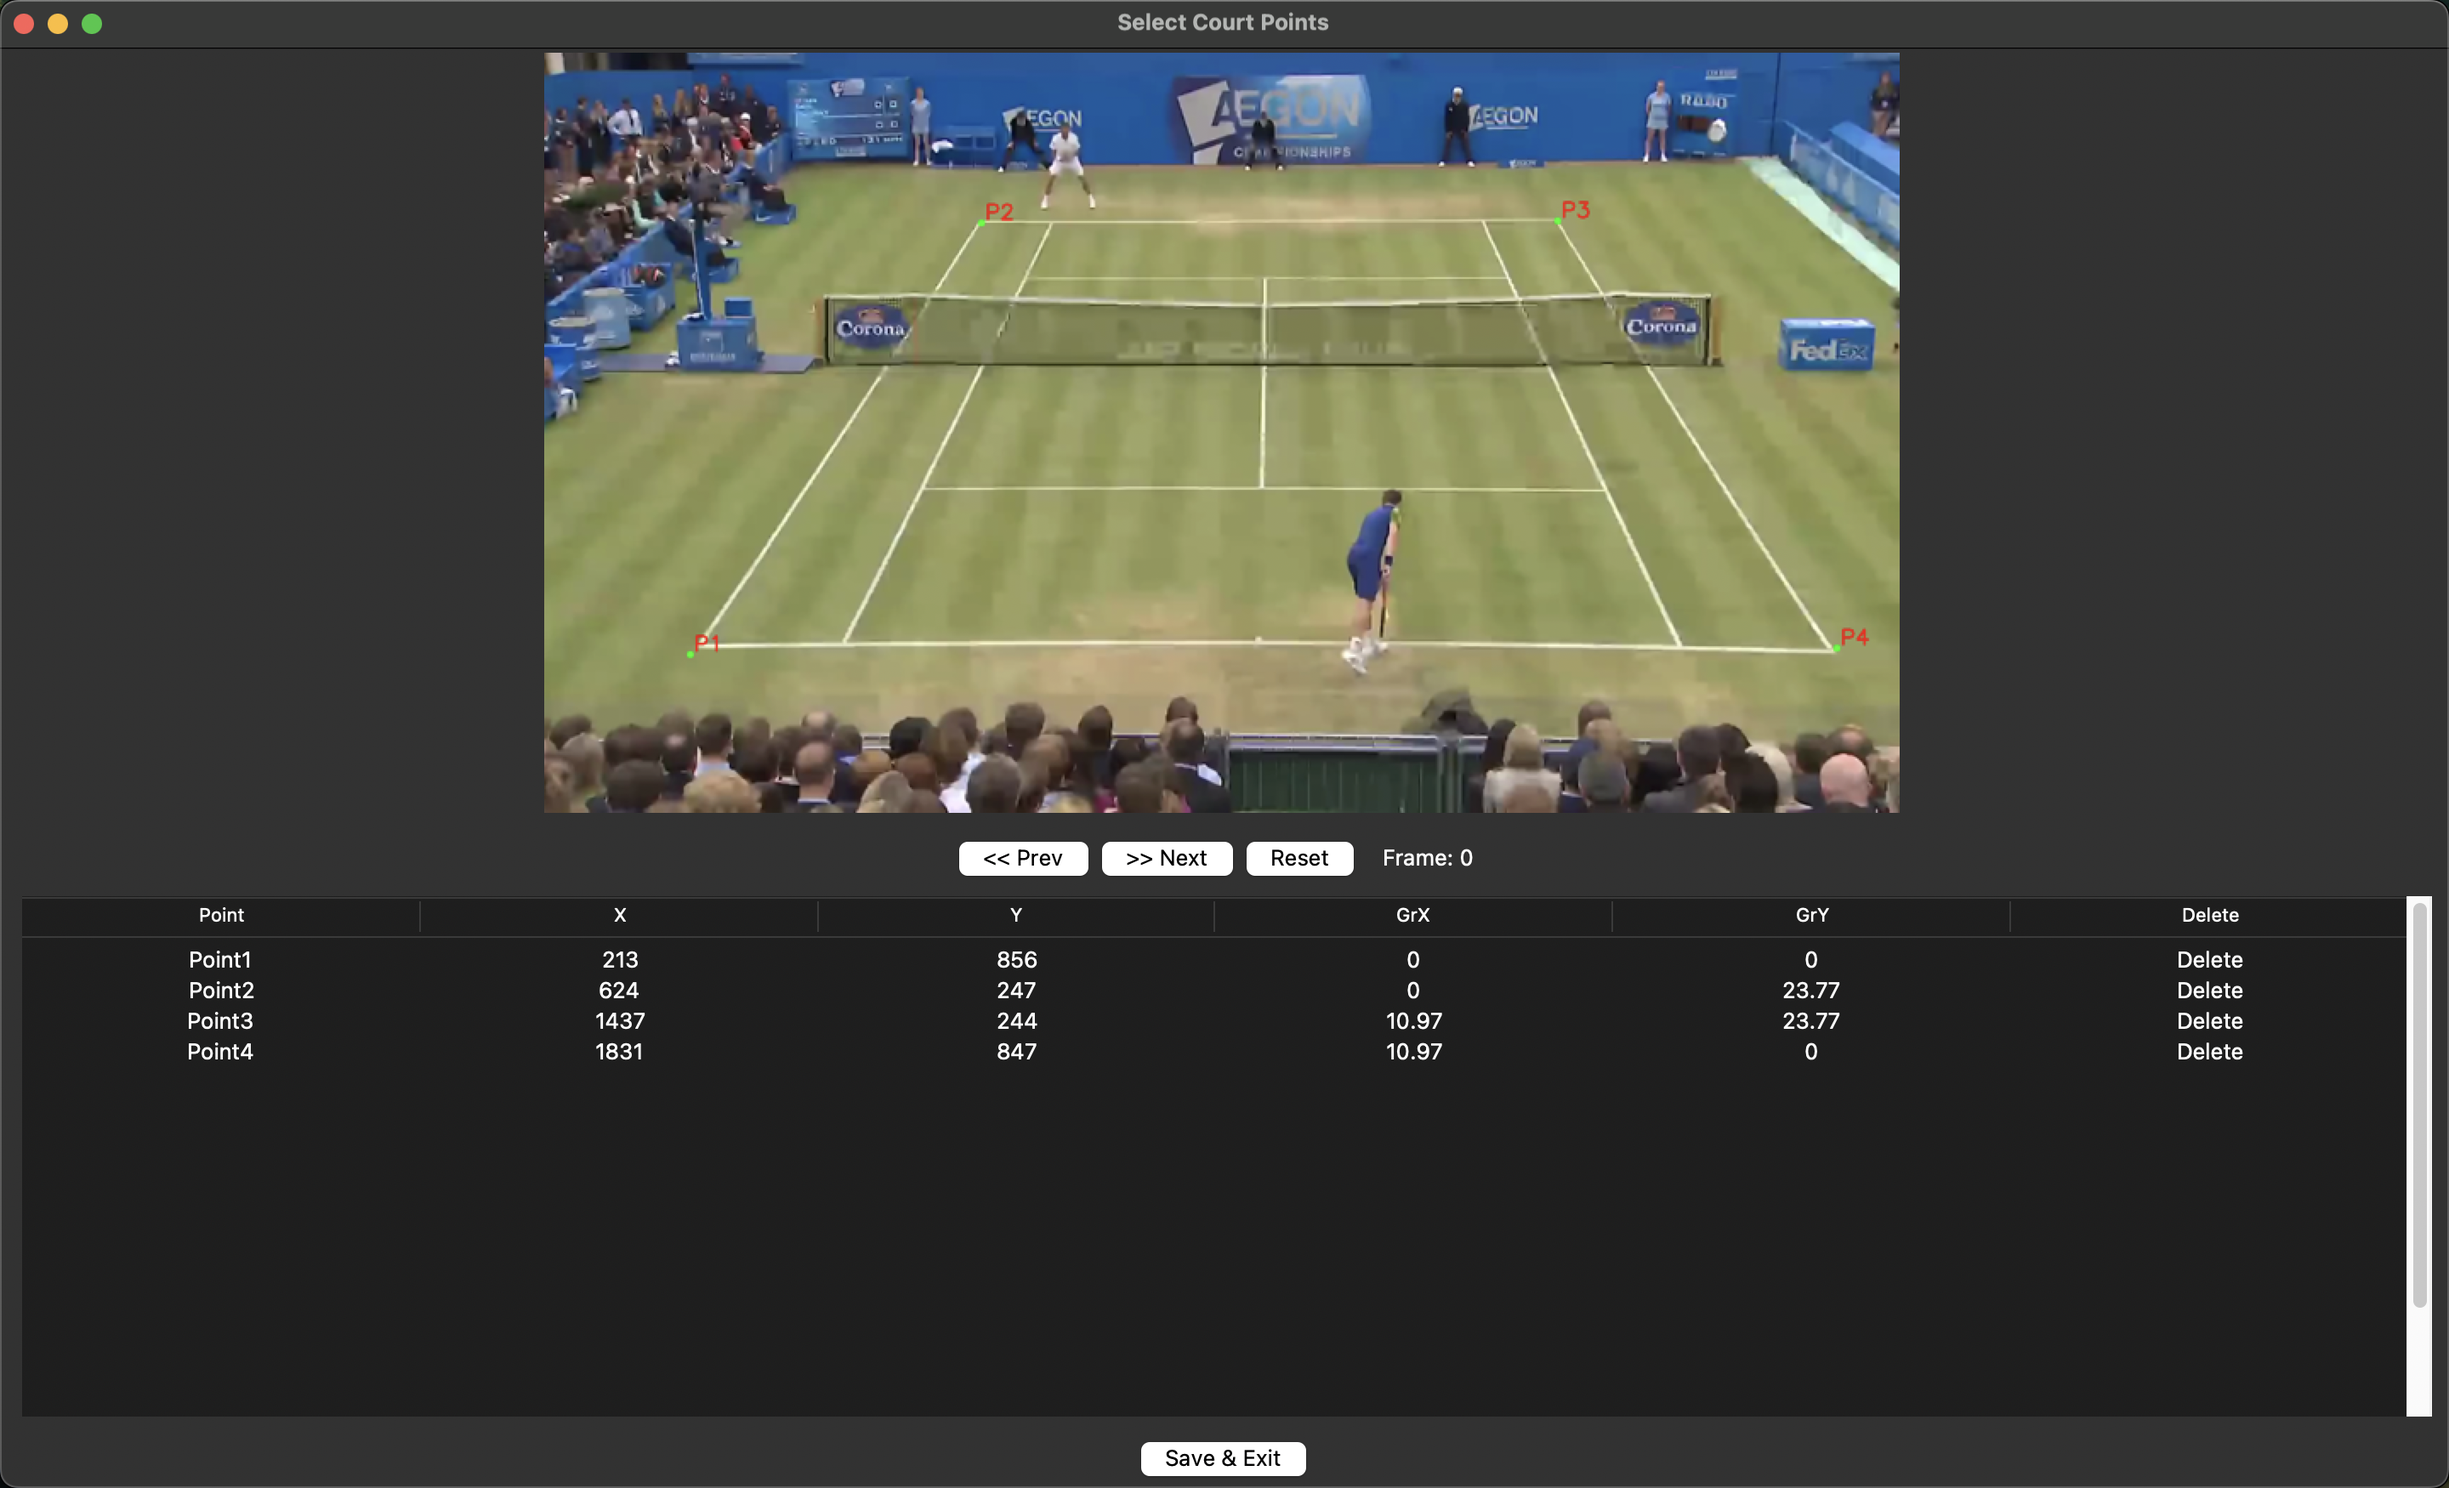
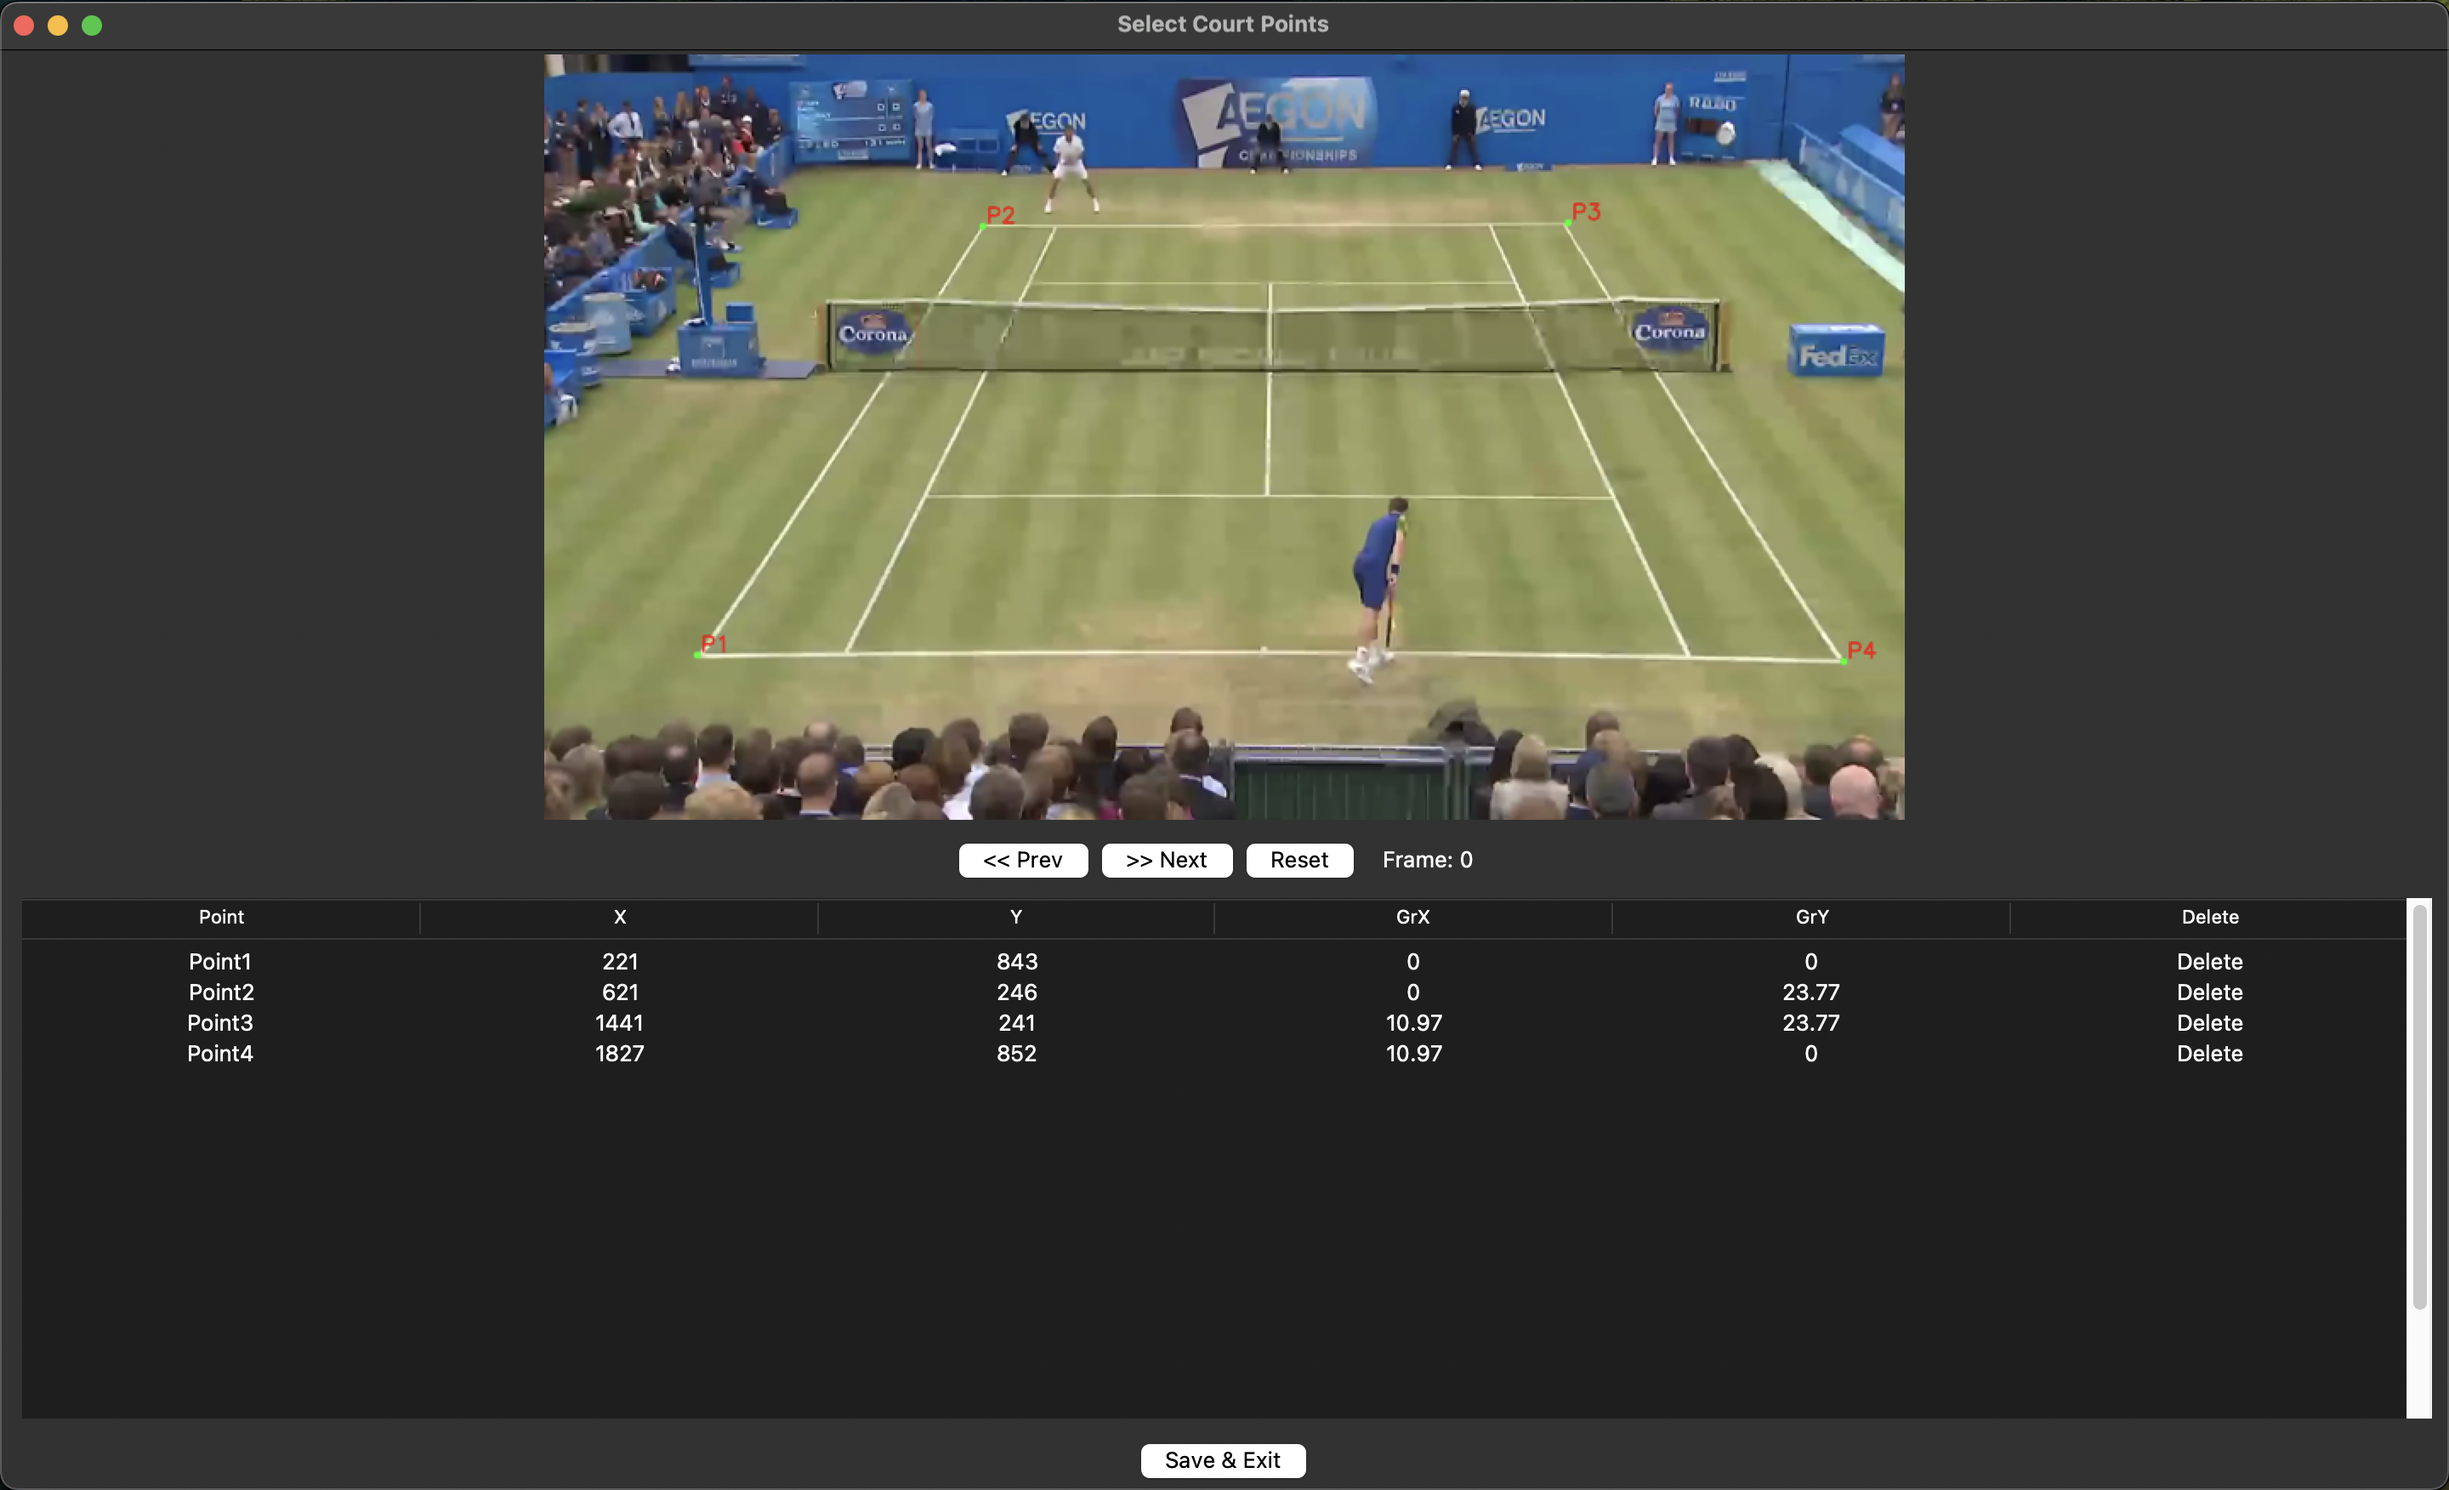
Fixed resizing issue, updated README and examples

diff --git a/video_tagger.py b/video_tagger.py
@@ -27,8 +27,11 @@ class VideoTagger:
         self.duration = self.total_frames / self.fps
 
         self.setup_gui()
+        self._canvas_img_id = None  # Used to store the image ID on the canvas
+        self.root.update_idletasks()
+        self.display_width = self.canvas.winfo_width()
+        self.display_height = self.canvas.winfo_height()
         self.load_frame(self.current_frame_idx)
-
         self.root.bind("<Left>", lambda event: self.prev_frame())
         self.root.bind("<Right>", lambda event: self.next_frame())
 
@@ -91,7 +94,6 @@ class VideoTagger:
         s = int(secs) % 60
         return f"{h:02}:{m:02}:{s:02}"
 
-
     def load_frame(self, frame_idx):
         self.cap.set(cv2.CAP_PROP_POS_FRAMES, frame_idx)
         ret, frame = self.cap.read()
@@ -105,15 +107,24 @@ class VideoTagger:
 
     def display_frame(self):
         display = self.frame_bgr.copy()
+        self.original_width = display.shape[1]
+        self.original_height = display.shape[0]
+
         for fr, lbl, x, y in self.clicked_points:
             if fr == self.current_frame_idx:
                 cv2.circle(display, (x, y), 4, (0, 255, 0), -1)
                 cv2.putText(display, f"{lbl} - ({x}, {y})", (x + 5, y - 5),
                             cv2.FONT_HERSHEY_SIMPLEX, 1, (0, 0, 255), 2)
+
         display_rgb = cv2.cvtColor(display, cv2.COLOR_BGR2RGB)
-        img = Image.fromarray(display_rgb).resize((800, 450))
-        self.tk_img = ImageTk.PhotoImage(img)
-        self.canvas.create_image(0, 0, anchor="nw", image=self.tk_img)
+        resized_img = Image.fromarray(display_rgb).resize((self.display_width, self.display_height))
+        self.tk_img = ImageTk.PhotoImage(resized_img)
+
+        if self._canvas_img_id is None:
+            self._canvas_img_id = self.canvas.create_image(0, 0, anchor="nw", image=self.tk_img)
+        else:
+            self.canvas.itemconfig(self._canvas_img_id, image=self.tk_img)
+
 
     def on_click(self, event):
         x_scale = self.frame_bgr.shape[1] / 800
@@ -139,23 +150,12 @@ class VideoTagger:
         self.update_table()
 
         if self.labels_filled():
-            self.save_current_points()
             self.next_frame()
 
     def labels_filled(self):
         return set(lbl for fr, lbl, _, _ in self.clicked_points if fr == self.current_frame_idx) == set(self.labels)
 
-    def save_current_points(self):
-        os.makedirs(os.path.dirname(self.output_csv) or ".", exist_ok=True)
-        with open(self.output_csv, "a", newline="") as f:
-            writer = csv.writer(f)
-            for fr, lbl, x, y in self.clicked_points:
-                if fr == self.current_frame_idx:
-                    writer.writerow([fr, lbl, x, y])
-        print(f"Auto-saved points for frame {self.current_frame_idx}")
-
     def prev_frame(self):
-        self.save_current_points()
         self.current_frame_idx = max(0, self.current_frame_idx - 1)
         self.slider_programmatic = True
         time_sec = self.current_frame_idx / self.fps
@@ -165,7 +165,6 @@ class VideoTagger:
         self.load_frame(self.current_frame_idx)
 
     def next_frame(self):
-        self.save_current_points()
         self.current_frame_idx = min(self.total_frames - 1, self.current_frame_idx + 1)
         self.slider_programmatic = True
         time_sec = self.current_frame_idx / self.fps
@@ -177,7 +176,6 @@ class VideoTagger:
     def on_slider_move(self, val):
         if self.slider_programmatic:
             return
-        self.save_current_points()
         seconds = float(val)
         self.slider_time_label.config(text=self.seconds_to_hms(seconds))
         self.current_frame_idx = int(seconds * self.fps)
@@ -236,7 +234,20 @@ class VideoTagger:
             self.root.after(int(1000 / self.fps), self.auto_play)
 
     def on_exit(self):
+        # ensure directory exists
+        os.makedirs(os.path.dirname(self.output_csv) or ".", exist_ok=True)
+
+        # write one final CSV with header + all clicks
+        with open(self.output_csv, "w", newline="") as f:
+            writer = csv.writer(f)
+            writer.writerow(["frame", "label", "x", "y"])
+            # sort by frame then label for readability
+            for fr, lbl, x, y in sorted(self.clicked_points, key=lambda t: (t[0], t[1])):
+                writer.writerow([fr, lbl, x, y])
+
+        print(f"Saved {len(self.clicked_points)} clicks to {self.output_csv}")
         self.root.destroy()
+
 
 
 def load_labels(label_csv):
@@ -262,12 +273,6 @@ def main(video_path=None, labels_csv=None, output_csv=None):
         base = os.path.splitext(os.path.basename(video_path))[0]
         directory = os.path.dirname(video_path)
         output_csv = os.path.join(directory, base + "_tagged.csv")
-
-    if os.path.exists(output_csv):
-        os.remove(output_csv)
-    with open(output_csv, "w", newline="") as f:
-        writer = csv.writer(f)
-        writer.writerow(["frame", "label", "x", "y"])
 
     root = tk.Tk()
     root.title("Video Point Tagger")

diff --git a/court_tagger.py b/court_tagger.py
@@ -12,7 +12,6 @@ class CourtSelector:
         self.video_path = video_path
         self.num_points = num_points
         self.output_csv = output_csv
-
         self.cap = cv2.VideoCapture(self.video_path)
         if not self.cap.isOpened():
             raise RuntimeError(f"Cannot open video '{self.video_path}'")
@@ -31,8 +30,12 @@ class CourtSelector:
         self.root.bind("<Right>", lambda e: self.next_frame())
 
         self.setup_gui()
+        self.root.update_idletasks()
+        self.display_width = self.canvas.winfo_width()
+        self.display_height = self.canvas.winfo_height()
         self.load_frame()
         self.root.mainloop()
+
 
     def setup_gui(self):
         self.canvas = tk.Canvas(self.root, width=800, height=450)
@@ -90,6 +93,7 @@ class CourtSelector:
         self.update_table()
 
     def display_frame(self):
+        self.canvas.delete("all")  # Clear previous frame (optional but avoids stacking)
         disp = self.frame_bgr.copy()
         for pt in self.points:
             if pt["x"] and pt["y"]:
@@ -98,7 +102,11 @@ class CourtSelector:
                 cv2.putText(disp, f"P{pt['index']}", (x+5,y-5),
                             cv2.FONT_HERSHEY_SIMPLEX, 1, (0,0,255), 2)
         rgb = cv2.cvtColor(disp, cv2.COLOR_BGR2RGB)
-        img = Image.fromarray(rgb).resize((800, 450))
+
+        self.original_width = disp.shape[1]
+        self.original_height = disp.shape[0]
+
+        img = Image.fromarray(rgb).resize((self.display_width, self.display_height))
         self.tk_img = ImageTk.PhotoImage(img)
         self.canvas.create_image(0, 0, anchor="nw", image=self.tk_img)
 
@@ -110,14 +118,20 @@ class CourtSelector:
             self.table.insert("", "end", iid=str(pt["index"]), values=vals)
 
     def on_click(self, event):
-        fx = int(event.x * self.frame_bgr.shape[1]/800)
-        fy = int(event.y * self.frame_bgr.shape[0]/450)
+        # Scale back to original resolution
+        x_scale = self.original_width / self.display_width
+        y_scale = self.original_height / self.display_height
+
+        fx = int(event.x * x_scale)
+        fy = int(event.y * y_scale)
+
         for pt in self.points:
             if not pt["x"] and not pt["y"]:
                 pt["x"], pt["y"] = str(fx), str(fy)
                 break
         self.display_frame()
         self.update_table()
+
 
     def on_table_click(self, event):
         if self.table.identify("region", event.x, event.y) != "cell":

diff --git a/README.md b/README.md
@@ -7,11 +7,11 @@
 
 ### video_tagger.py
 ![Video Tagger Screenshot](pictures/video_tagger.png)
-1. Populate the labels.csv with the labels you would like to use for tagging. One row = one label.
+1. Populate the labels.csv with the labels you would like to use for tagging. One row corresponds to one label.
 2. Run the script:
     - `python3 video_tagger.py {path_to_video} {path_to_labels.csv} --output_csv {name_of_output.csv (optional)}`
     - Alternatively, define the variables `VIDEO_PATH`, `LABELS_CSV` and `OUPTUT_CSV` and run `python3 video_tagger.py`
-3. The output csv will contain the following columns:
+3. The output csv, by default, will have the file name `{video_path}_tagged.csv` and will contain the following columns:
     - Frame Number
     - Label Name
     - Pixel X Coordinate
@@ -24,8 +24,8 @@
     - Alternatively, define the variables `VIDEO_PATH`, `NUM_POINTS` and `OUPTUT_CSV` and run `python3 court_tagger.py`
 2. The file will display the first frame of the video. To navigate between video frames, use the buttons or left and right arrows.
 3. Click on the points in the video
-4. Double click on the GrX and GrY columns and enter the values you want to use for the ground truth columns
-5. Press "Save and Exit" to create an output `court_points.csv`
+4. Double click on the GrX and GrY columns and type the values you want to use for the ground truth columns. Press Enter to confirm the values.
+5. Press "Save and Exit" to create an output `{video_name_}_calibrated.csv` that is generated by default and saved to the same location as the input video.
 
 ### apply_homography.py
 1. Run the script: `python3 apply_homography.py {path_to_original_coords.csv} {path_to_court_points.csv}`
